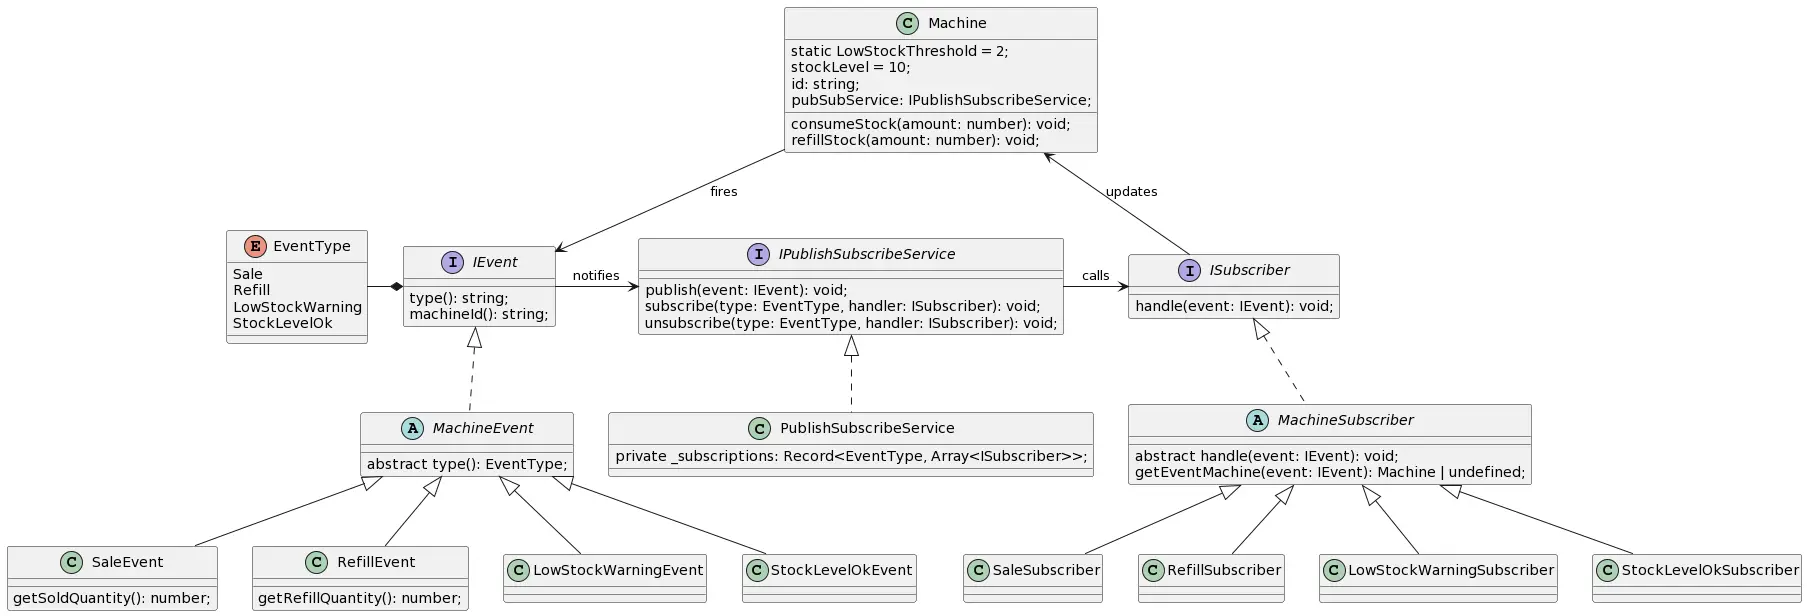
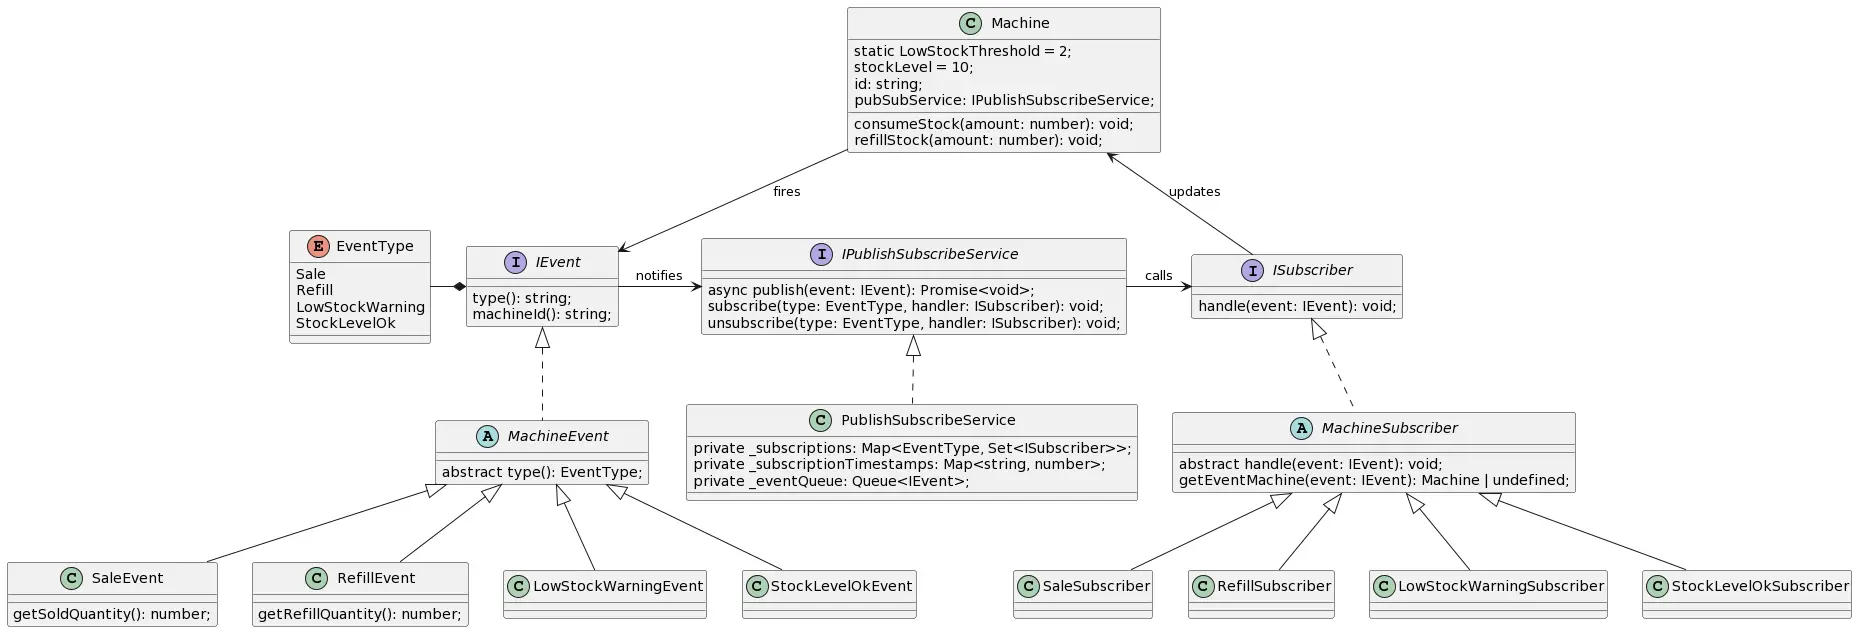
Update docs

diff --git a/README.md b/README.md
@@ -90,38 +90,22 @@ See [`typescript-notes` repo](https://github.com/WaterGenie35/typescript-notes).
 
 ![Rough class diagram overview.](/doc/class-diagram.webp)
 
-#### Subscription as `Record<EventType, Array<ISubscriber>>`
+#### Subscription as `Map<EventType, Set<ISubscriber>>`
 
 - Unless event types are dynamic, we can just use enum (or enum-like constructs) to describe them and be type-safer.
-- See [`Record<Keys, Type>` doc](https://www.typescriptlang.org/docs/handbook/utility-types.html#recordkeys-type).
-- `publish`, `subscribe`, `unsubscribe` are all O(sub) (sub = # of subscribers).
-  - Subscription is not just O(1) if we want to also check if the subscriber is not already registered for that event.
+- O(n) `publish`, amortised O(1) `subscribe` and `unsubscribe`.
 
 #### Event Side-Effects from Subscribers
 
 - Subscribers delegate machine operations to the `Machine` class.
-- The machine will be the one responsible for creating and publishing any events when appropriate.
+- The machine will be the one responsible for creating and publishing any additional events when appropriate.
 
 #### Ordering and At-Most-Once Guarantees
 
-- This is a problem when our pub-sub system is properly distributed, but right now, the service, publishers, and subscribers are synchronous.
-  - Need to research; e.g. how can we distinguish between an earlier event that happens to arrive late vs an event that occurs later?
-- For crossing-threshold checks, we just check the stock level before and after for now.
-- Use some kind of queue?
-  - When should the queue be processed? Continuously in parallel with any potential event firing?
+- Events are stored in a queue to guarantee they are handled in the published order.
+- For threshold-related events, we guarantee at-most-once in the firing logic.
+  - I.e. checks value before and after and only fire when it crosses.
 
-### Possible Toy Projects
+#### Subscription Timing
 
-- Chat application
-  - Users join (subscribe to) chat rooms
-  - Chat rooms broadcast (publish) to users
-  - The service must then make sure not to send a user's message back to itself.
-
-### Other Notes
-
-- Difference between subscribing to `IEvent.type()` vs `IEvent`?
-  - Just another abstraction layer?
-- Store machines in a dictionary instead to facilitate the look-up?
-  - Or keep track of machines instead of machine ids.
-- Where should the logic live?
-  - E.g. making sure stock level is non-negative.
+- In case published events are still being processed, new subscriptions are filtered out by keeping track of timestamps.
